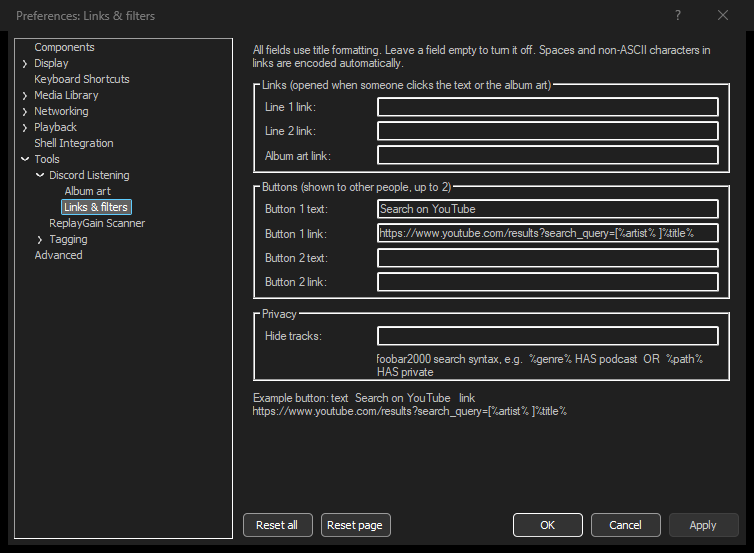
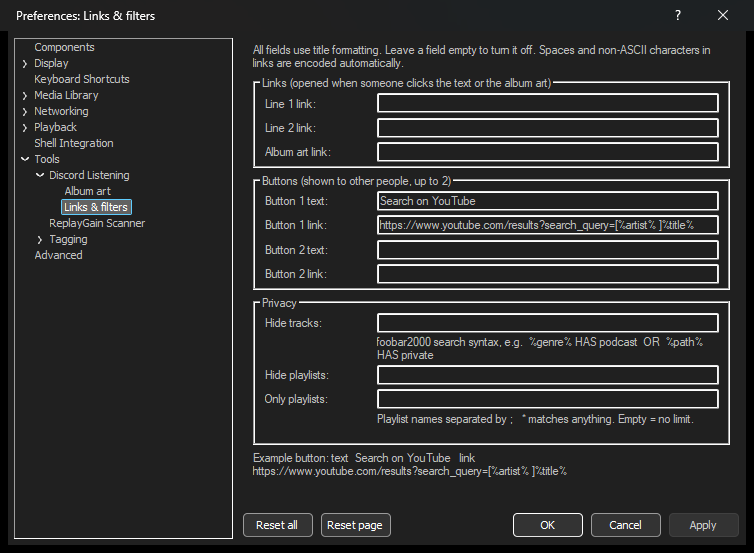
fix: 清單過濾在換曲瞬間可能短暫送出被隱藏的歌；docs: v0.3.0
- 有設定播放清單過濾、但 foobar2000 還沒回報正在播放的清單時，先當作隱藏
- 日文標籤縮短、閒置分鐘那一列加寬，四種語言都不再被裁掉
- README（中英文）：示意動圖、新功能說明、新截圖
- CHANGELOG 0.3.0、verify.md 補上新項目、VERSION 0.3.0

Changed region(s): [[0.3355, 0.123, 0.9761, 0.7685], [0.3355, 0.7993, 0.9456, 0.8608], [0.0305, 0.0, 0.183, 0.0307]]

diff --git a/src/i18n.cpp b/src/i18n.cpp
@@ -77,12 +77,12 @@ constexpr Entry kStrings[] = {
     { StringId::ui_status_shows, "Status shows:", "狀態列顯示：", "状态栏显示：", "ステータス表示：" },
     { StringId::ui_when_paused, "When paused:", "暫停時：", "暂停时：", "一時停止時：" },
     { StringId::ui_idle_prefix, "Clear after", "閒置", "闲置", "放置" },
-    { StringId::ui_idle_suffix, "min", "分鐘後清除", "分钟后清除", "分後に消去" },
+    { StringId::ui_idle_suffix, "min", "分後清除", "分后清除", "分後に消去" },
     { StringId::ui_when_stopped, "When stopped:", "停止時：", "停止时：", "停止時：" },
     { StringId::ui_text, "Text (title formatting)", "文字（title formatting）", "文字（title formatting）", "テキスト（title formatting）" },
     { StringId::ui_line1, "Line 1:", "第一行：", "第一行：", "1 行目：" },
     { StringId::ui_line2, "Line 2:", "第二行：", "第二行：", "2 行目：" },
-    { StringId::ui_line3, "Line 3 / art tooltip:", "第三行／封面提示：", "第三行／封面提示：", "3 行目／アートの説明：" },
+    { StringId::ui_line3, "Line 3 / art tooltip:", "第三行／封面提示：", "第三行／封面提示：", "3 行目／説明：" },
     { StringId::ui_preview, "Preview (now playing)", "預覽（目前播放）", "预览（当前播放）", "プレビュー（再生中の曲）" },
     { StringId::ui_icons, "Icons", "圖示", "图标", "アイコン" },
     { StringId::ui_small_icons, "Play / pause / stop icon", "播放／暫停／停止圖示", "播放／暂停／停止图标", "再生／一時停止／停止アイコン" },
@@ -98,7 +98,7 @@ constexpr Entry kStrings[] = {
     { StringId::ui_server, "Server:", "伺服器：", "服务器：", "サーバー：" },
     { StringId::ui_country, "Store country:", "商店國家：", "商店国家：", "ストアの国：" },
     { StringId::ui_api_key, "API key:", "API key：", "API key：", "API キー：" },
-    { StringId::ui_use_upload, "Upload local art", "上傳本機封面", "上传本地封面", "ローカルのアートをアップロード" },
+    { StringId::ui_use_upload, "Upload local art", "上傳本機封面", "上传本地封面", "アップロード" },
     { StringId::ui_command, "Command:", "指令：", "命令：", "コマンド：" },
     { StringId::ui_manual_note,
       "Art you set by hand (right-click > Utilities > Set Discord album art) always comes first. Empty server = musicbrainz.org.",
@@ -106,8 +106,8 @@ constexpr Entry kStrings[] = {
       "手动指定的封面（右键 > Utilities > 指定 Discord 专辑封面）始终最优先。服务器留空＝musicbrainz.org。",
       "手動で指定したアート（右クリック > Utilities > Discord のアルバムアートを指定）が常に最優先です。サーバーが空欄なら musicbrainz.org を使います。" },
     { StringId::ui_matching, "Matching", "比對", "匹配", "照合" },
-    { StringId::ui_same_album, "Same album if equal:", "視為同一張專輯：", "视为同一张专辑：", "同じアルバムの条件：" },
-    { StringId::ui_no_art_for, "No art for tracks:", "不抓封面的曲目：", "不获取封面的曲目：", "アートを取得しない曲：" },
+    { StringId::ui_same_album, "Same album if equal:", "視為同一張專輯：", "视为同一张专辑：", "同一アルバム：" },
+    { StringId::ui_no_art_for, "No art for tracks:", "不抓封面的曲目：", "不获取封面的曲目：", "アート除外：" },
     { StringId::ui_cache, "Cache", "快取", "缓存", "キャッシュ" },
     { StringId::ui_clear_cache, "Clear art cache", "清除封面快取", "清除封面缓存", "キャッシュを消去" },
 
@@ -133,11 +133,11 @@ constexpr Entry kStrings[] = {
       "foobar2000 搜尋語法，例如  %genre% HAS podcast  OR  %path% HAS private",
       "foobar2000 搜索语法，例如  %genre% HAS podcast  OR  %path% HAS private",
       "foobar2000 の検索構文。例：%genre% HAS podcast  OR  %path% HAS private" },
-    { StringId::ui_hide_playlists, "Hide playlists:", "隱藏這些清單：", "隐藏这些列表：", "表示しないプレイリスト：" },
-    { StringId::ui_only_playlists, "Only playlists:", "只顯示這些清單：", "只显示这些列表：", "表示するプレイリストのみ：" },
+    { StringId::ui_hide_playlists, "Hide playlists:", "隱藏這些清單：", "隐藏这些列表：", "除外リスト：" },
+    { StringId::ui_only_playlists, "Only playlists:", "只顯示這些清單：", "只显示这些列表：", "限定リスト：" },
     { StringId::ui_playlist_note, "Playlist names separated by ;   * matches anything. Empty = no limit.",
       "清單名稱以 ; 分隔，* 代表任意文字。留空＝不限制。", "列表名称以 ; 分隔，* 代表任意文字。留空＝不限制。",
-      "プレイリスト名を ; で区切ります。* は任意の文字列。空欄＝制限なし。" },
+      "プレイリスト名を ; で区切ります（* は任意の文字列）。限定リストが空欄なら制限なし。" },
     { StringId::ui_example, "Example button: text  Search on YouTube   link  https://www.youtube.com/results?search_query=[%artist% ]%title%",
       "按鈕範例：文字  在 YouTube 搜尋   連結  https://www.youtube.com/results?search_query=[%artist% ]%title%",
       "按钮示例：文字  在 YouTube 搜索   链接  https://www.youtube.com/results?search_query=[%artist% ]%title%",

diff --git a/src/presence.cpp b/src/presence.cpp
@@ -173,10 +173,14 @@ bool PlayingFromHiddenPlaylist() {
         return false;
     }
     auto pm = playlist_manager::get();
-    pfc::string8 name;
-    if (const auto index = pm->get_playing_playlist(); index != SIZE_MAX) {
-        pm->playlist_get_name(index, name);
+    const auto index = pm->get_playing_playlist();
+    if (index == SIZE_MAX) {
+        // 剛換曲時 foobar2000 可能還沒回報正在播放的清單。有設定清單過濾時先當作隱藏，
+        // 等稍後的刷新確認清單再顯示，避免被隱藏的歌短暫送出。
+        return true;
     }
+    pfc::string8 name;
+    pm->playlist_get_name(index, name);
     return playlist_filter::IsHidden(name.c_str(), hide, only);
 }
 

diff --git a/README.en.md b/README.en.md
@@ -7,6 +7,8 @@
 [![Build](https://github.com/Carinoasd/foo_discord_listening/actions/workflows/build.yml/badge.svg)](https://github.com/Carinoasd/foo_discord_listening/actions/workflows/build.yml)
 [![License: MIT](https://img.shields.io/badge/License-MIT-yellow.svg)](LICENSE)
 
+![Demo](docs/demo.gif)
+
 A from-scratch foobar2000 component inspired by [foo_discord_rich](https://github.com/TheQwertiest/foo_discord_rich). The original has been unmaintained since 2024 and has many open issues, such as a stuck time display, missing album art, and settings that reset on restart. This rewrite was designed around those issue reports and uses no code from the original.
 
 ---
@@ -25,14 +27,18 @@ A from-scratch foobar2000 component inspired by [foo_discord_rich](https://githu
 - **Links and buttons.** URLs opened when someone clicks the title, the artist, or the album art, and up to two buttons (for example, "Search on YouTube").
 - **Privacy filters.** Hide the status, or skip album art, for tracks that match a foobar2000 search query.
 - **Keep the status when stopped** (optional). The last song stays visible after you stop playback.
-- **Traditional Chinese UI.** Used automatically when Windows is set to Traditional Chinese.
+- **Clear when idle.** The status is cleared after you've been paused or stopped for a while (15 minutes by default), so it doesn't linger when you walk away.
+- **Playlist filters.** Hide the status for some playlists, or show it only for some, with `*` wildcards.
+- **Live preview** of the three text lines on the preferences page.
+- **Choose a Discord client** when Discord, PTB, and Canary are running at the same time.
+- **English, Traditional Chinese, Simplified Chinese, and Japanese UI**, picked from the Windows display language.
 - **Moving from foo_discord_rich.** The settings you changed there are picked up on first start.
 - **Never slows foobar2000 down.**
   - The Discord connection and all network requests run on background threads.
   - Every request has a timeout, and the component reconnects automatically when Discord starts.
   - Pending work is aborted immediately when foobar2000 exits, including a stuck upload command.
 - Supports foobar2000 2.x x64 and x86. The preferences pages support dark mode.
-- Checks for a new version once a day (can be turned off).
+- Checks for a new version once a day (can be turned off). On 32-bit foobar2000 you can also use [foo_acfu](https://acfu.3dyd.com/) (foo_acfu is 32-bit only).
 
 ![Preferences](docs/preferences-en.png)
 
@@ -55,10 +61,14 @@ Settings are in **File > Preferences > Tools > Discord Listening**, or open them
 | Type | Listening to | Playing / Watching are also available |
 | Status shows | Line 1 (song title) | What the member list and your status show |
 | When paused | Keep showing the song | Or clear the status |
+| Clear after N min | 15 | Clear after this long paused (or stopped, when keeping the last song); 0 = never |
 | When stopped | Clear the status | Or keep showing the last song |
 | Line 1 / 2 / 3 | `[%title%]` / `[%artist%]` / `[%album%]` | Title formatting; line 3 is also the album art tooltip |
 | Icons | All on | Play / pause / stop icon, placeholder art, "(Paused)" on line 1 |
 | Application ID | Empty | Empty uses the built-in one; see below to show a different name |
+| Discord client | Any Discord | Pick Discord, PTB, or Canary when several are running |
+
+The **Preview** box shows the current song with the three formats applied, updated as you type, before you click Apply.
 
 ### Album art
 
@@ -99,6 +109,8 @@ https://www.youtube.com/results?search_query=[%artist% ]%title%
 ```
 
 Only **other people** can click buttons and links. That's how Discord works.
+
+**Hide playlists / Only playlists** take playlist names separated by `;`. `*` matches anything, and matching ignores case. For example, hide `Private;Podcast*`, or show only `Public*`. If both are set, hiding wins.
 
 ### Want a different name?
 

diff --git a/README.md b/README.md
@@ -9,6 +9,8 @@
 [![Build](https://github.com/Carinoasd/foo_discord_listening/actions/workflows/build.yml/badge.svg)](https://github.com/Carinoasd/foo_discord_listening/actions/workflows/build.yml)
 [![License: MIT](https://img.shields.io/badge/License-MIT-yellow.svg)](LICENSE)
 
+![示意動圖](docs/demo.gif)
+
 這是一個從零重寫的 foobar2000 元件，靈感來自 [foo_discord_rich](https://github.com/TheQwertiest/foo_discord_rich)。原版自 2024 年起就沒有再維護，累積了不少問題，例如時間軸不動、封面不顯示、設定重開後被還原。這個版本參考了原版所有 issue 的討論重新設計，沒有沿用原版的程式碼。
 
 ---
@@ -27,14 +29,18 @@
 - **連結與按鈕**：點歌名、歌手或封面時開啟的網址，以及最多兩個按鈕（例如「在 YouTube 搜尋」）。
 - **隱私過濾**：符合條件的曲目不顯示狀態，或不抓封面。條件使用 foobar2000 的搜尋語法。
 - **停止時保留狀態**（可選）：停止播放後繼續顯示最後一首。
-- **繁體中文介面**：Windows 介面語言為繁體中文時，設定頁和選單自動顯示中文。
+- **暫停太久自動清除**：暫停或停止超過指定分鐘數（預設 15 分鐘）就清除狀態，離開電腦後不會一直掛著。
+- **依播放清單過濾**：從指定清單播放時不顯示，或只有指定清單才顯示，支援 `*` 萬用字元。
+- **設定頁即時預覽**：修改三行文字時，直接看到目前這首歌套用後的樣子。
+- **指定 Discord 版本**：同時開著正式版、PTB、Canary 時，可以選擇要顯示在哪一個。
+- **多語系介面**：依 Windows 介面語言自動切換英文、繁體中文、簡體中文、日文。
 - **從 foo_discord_rich 搬家**：第一次啟動時自動沿用你改過的設定。
 - **不會拖慢 foobar2000**：
   - 與 Discord 的連線和所有網路請求都在背景執行。
   - 每個請求都有逾時；Discord 沒開時會自動重試。
   - 關閉 foobar2000 時會立即中斷進行中的工作，連卡住的上傳程式也會一起結束。
 - 支援 foobar2000 2.x 的 x64 與 x86 版本，設定頁支援深色模式。
-- 每天檢查一次有沒有新版本（可關閉）。
+- 每天檢查一次有沒有新版本（可關閉）。32 位元的 foobar2000 也可以透過 [foo_acfu](https://acfu.3dyd.com/) 檢查更新（foo_acfu 只有 32 位元版）。
 
 ![設定頁](docs/preferences-zh.png)
 
@@ -57,10 +63,14 @@
 | 類型 | 正在聽（Listening to） | 也可改成 Playing / Watching |
 | 狀態列顯示 | 第一行（歌名） | 成員清單與個人狀態列顯示的欄位 |
 | 暫停時 | 繼續顯示歌曲 | 或清除狀態 |
+| 閒置 N 分後清除 | 15 | 暫停或「停止時保留」超過這麼久就清除；0 為不清除 |
 | 停止時 | 清除狀態 | 或保留最後一首歌 |
 | 第一／二／三行 | `[%title%]` / `[%artist%]` / `[%album%]` | title formatting；第三行同時是封面的滑鼠提示 |
 | 圖示 | 全部開啟 | 封面角落的播放／暫停／停止圖示、無封面預設圖、第一行加上「(已暫停)」 |
 | 應用程式 ID | 空白 | 留空使用內建的；想顯示其他名稱見下方 |
+| Discord 版本 | 任何 Discord | 同時開了多個版本時，指定正式版、PTB 或 Canary |
+
+主頁的「預覽」區會即時顯示目前播放的歌套用三行格式後的樣子，修改格式時不用按 Apply 就能看到。
 
 ### 專輯封面
 
@@ -101,6 +111,8 @@ https://www.youtube.com/results?search_query=[%artist% ]%title%
 ```
 
 按鈕和連結只有**別人**看得到，自己點不到，這是 Discord 的設計。
+
+**隱藏這些清單／只顯示這些清單**：清單名稱以 `;` 分隔，`*` 代表任意文字，不分大小寫。例如隱藏 `私人;Podcast*`，或只顯示 `公開*`。兩者都設定時，隱藏優先。
 
 ### 想顯示其他名稱？
 

diff --git a/CHANGELOG.md b/CHANGELOG.md
@@ -9,6 +9,39 @@ and this project adheres to [Semantic Versioning](https://semver.org/).
 
 ---
 
+## [0.3.0] - 2026-10-07
+
+### Added
+
+- **暫停太久自動清除狀態。** 暫停（或「停止時保留」）超過指定分鐘數就清除，預設 15 分鐘，0 為不清除。
+  *Clear the status after being paused or stopped for a while (15 minutes by default).*
+- **依播放清單過濾。** 「隱藏這些清單」與「只顯示這些清單」，分號分隔、支援 `*`、不分大小寫。
+  *Hide the status for some playlists, or show it only for some.*
+- **設定頁即時預覽。** 修改三行文字格式時，直接顯示目前這首歌套用後的樣子。
+  *A live preview of the three text lines on the preferences page.*
+- **指定 Discord 版本。** 同時開了正式版、PTB、Canary 時可選擇要連哪一個；狀態列顯示實際連上的版本。
+  *Choose between Discord, PTB, and Canary. The status shows which one is connected.*
+- **簡體中文與日文介面**，連同原本的英文與繁體中文，依 Windows 介面語言自動切換。
+  *Simplified Chinese and Japanese UI, alongside English and Traditional Chinese.*
+- **foo_acfu 支援。** 32 位元 foobar2000 可在 foo_acfu 中檢查本元件的更新（foo_acfu 只有 32 位元版）。
+  *Update checks through foo_acfu on 32-bit foobar2000.*
+- README 加入示意動圖。
+  *A demo animation in the README.*
+
+### Changed
+
+- 封面改抓較大的尺寸：iTunes 1000×1000、Cover Art Archive 1200px。
+  *Larger album art: 1000×1000 from iTunes, 1200px from Cover Art Archive.*
+- 設定頁改為單一版面＋翻譯表，新增語言時不必再複製對話框。
+  *Preferences use one layout plus a translation table, so adding a language no longer means copying dialogs.*
+
+### Fixed
+
+- 設定「隱藏這些清單」時，剛換曲的瞬間可能還不知道正在播放哪個清單，被隱藏的歌會短暫送出；現在會等確認清單後才顯示。
+  *A hidden playlist's song could briefly be sent right after a track change.*
+
+---
+
 ## [0.2.0] - 2026-10-07
 
 ### Added
@@ -99,5 +132,6 @@ and this project adheres to [Semantic Versioning](https://semver.org/).
 - 上傳程式輸出較多時會卡住，錯誤訊息也被當成封面網址（#79）。
   *The uploader could deadlock on large output, and error text was used as an art URL.*
 
+[0.3.0]: https://github.com/Carinoasd/foo_discord_listening/releases/tag/v0.3.0
 [0.2.0]: https://github.com/Carinoasd/foo_discord_listening/releases/tag/v0.2.0
 [0.1.0]: https://github.com/Carinoasd/foo_discord_listening/releases/tag/v0.1.0

diff --git a/verify.md b/verify.md
@@ -34,6 +34,14 @@
 - [ ] 歌名含 emoji 或超過 128 字：正常顯示，以刪節號截斷，Console 沒有 Discord 拒絕的訊息。
 - [ ] 改 Line 1/2/3 的格式並 Apply：立刻生效。
 
+## 閒置、清單、版本
+
+- [ ] 「閒置 N 分後清除」設為 1：暫停約 1 分鐘後狀態清除；繼續播放後恢復。
+- [ ] 「隱藏這些清單」設為目前清單（可用 `*`）：換曲時被隱藏的歌**一次都不會**送出（除錯紀錄只有清除）。
+- [ ] 「只顯示這些清單」設為其他清單：不顯示；設為目前清單（大小寫不同）：顯示。
+- [ ] Discord 版本選沒有在執行的版本：狀態顯示該版本沒有在執行；選「任何 Discord」：連上並顯示版本名稱。
+- [ ] 設定頁預覽：顯示目前歌曲套用三行格式的結果；修改格式（不按 Apply）時立即更新；沒有播放時顯示提示文字。
+
 ## 圖示與停止
 
 - [ ] 播放／暫停時封面角落顯示對應的小圖示；沒有封面的曲目顯示預設圖。
@@ -69,6 +77,7 @@
 ## 介面
 
 - [ ] Windows 介面為繁體中文時，三個設定頁、手動指定封面對話框、選單、狀態都是中文，且沒有文字被裁掉。
+- [ ] 以 `-DFDL_FORCE_LANG=en|zh_cn|ja` 建置截圖：英文、簡體中文、日文的三個設定頁都沒有文字被裁掉。
 - [ ] foobar2000 深色模式下三個設定頁都正確變色。
 - [ ] 修改任一欄位後 Apply 變成可按，按下後立即生效；Reset page 恢復預設值。
 
@@ -84,6 +93,7 @@
 ## 32 位元
 
 - [ ] 在 32 位元的 foobar2000 上安裝：元件載入、連上 Discord、抓到封面，關閉正常。
+- [ ] 安裝 foo_acfu：Preferences > Components > Auto Check for Updates 列出 Discord Listening；勾選後 Check for Updates，Available 顯示 GitHub 最新版本。
 
 ## 結束
 
